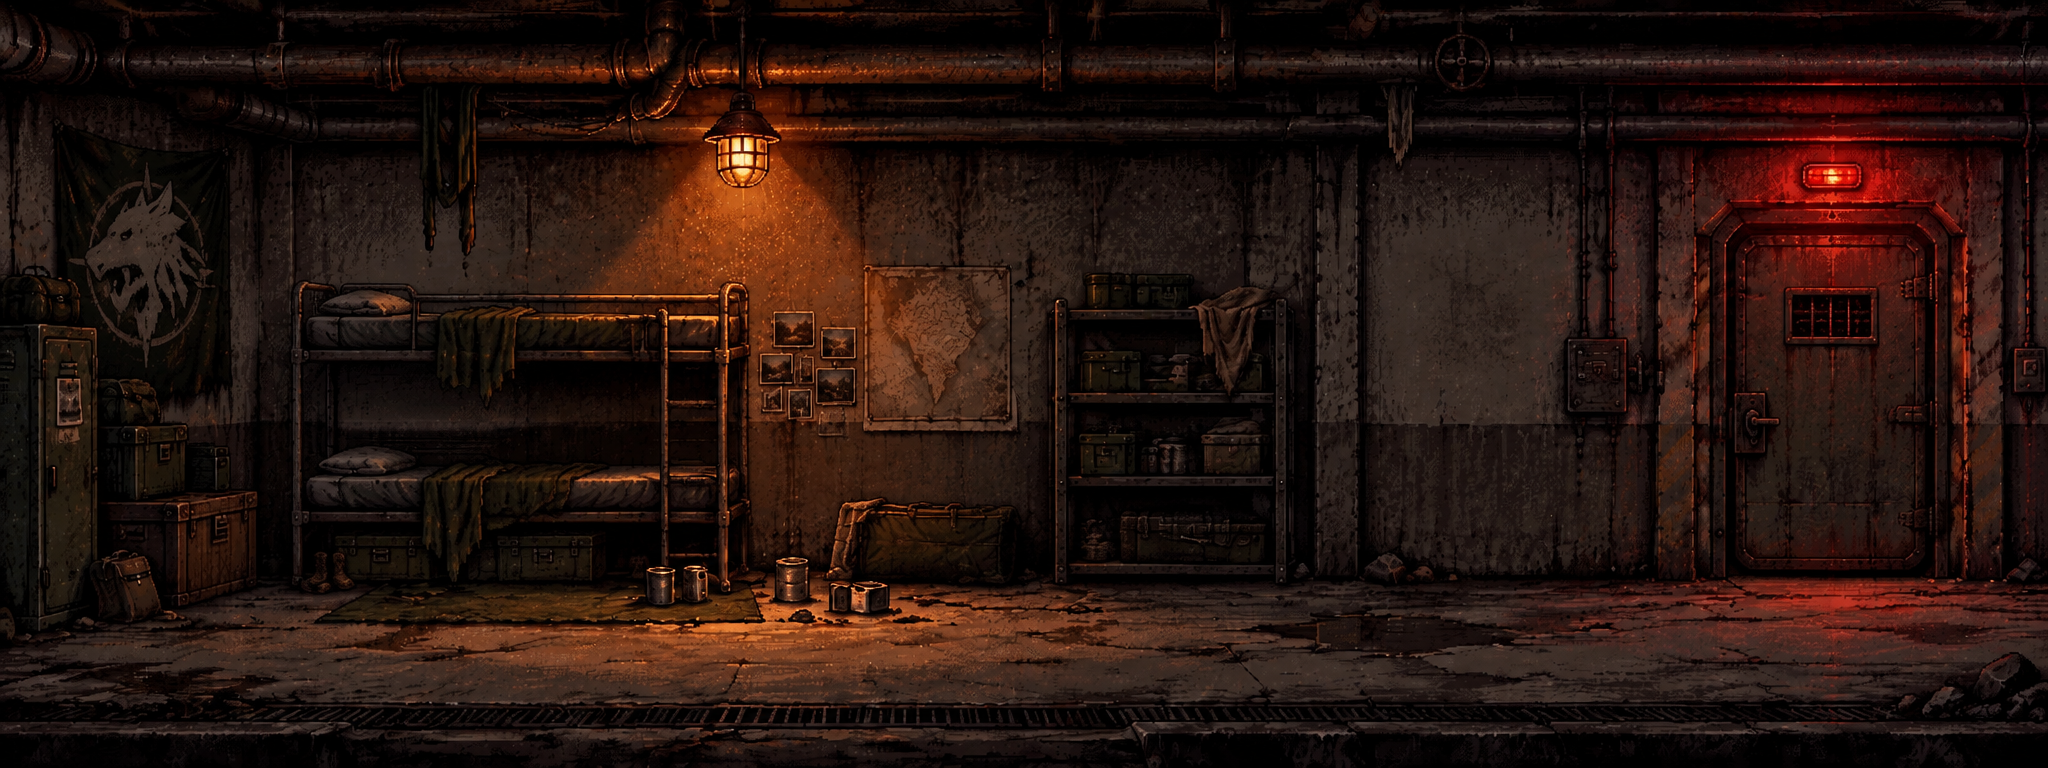
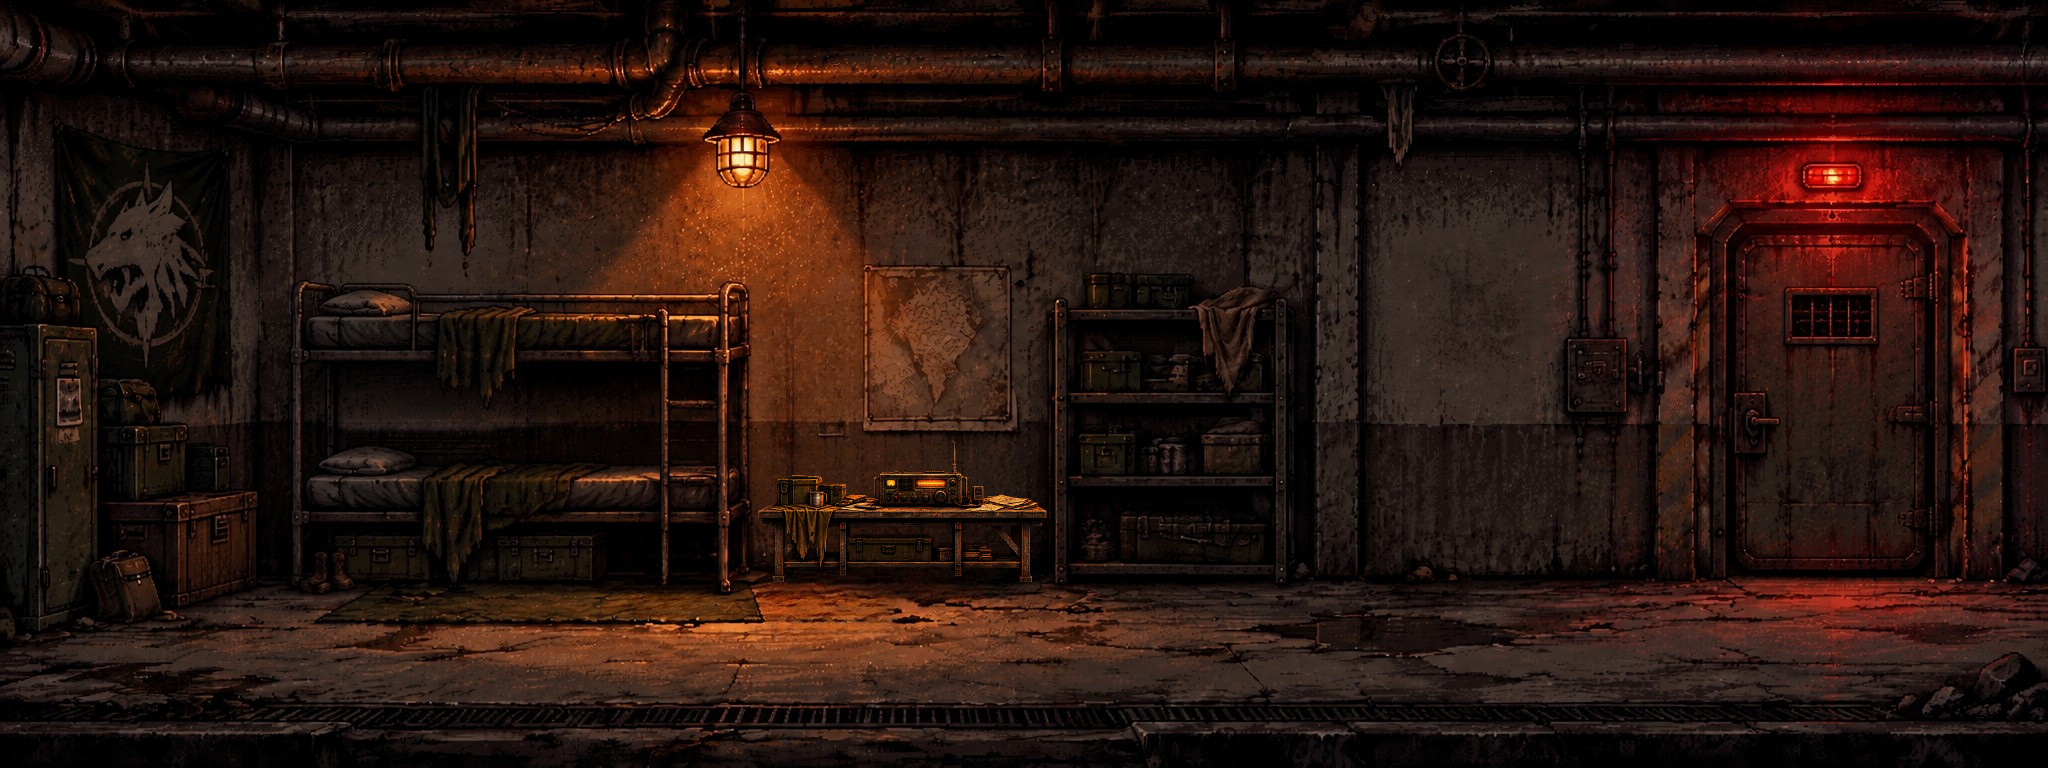
Bunker: painted radio bench, closed food box that opens with an effect
- Painting is now bunker new.png, with the open box cleared back to bare floor
- closed box.png stands there; E rattles the latches, pops the lid with dust,
  a warm glow and motes, and reveals the painted open box
- Radio interaction moved onto the painted set; the bench prop is gone
- Brothers hold the plain side idle through interactions (no guitar/burger)
- Letter: no dashes

Claude-Session: https://claude.ai/code/session_01AdjyBFBBb6YvHaD9hikNRS

Changed region(s): [[0.3125, 0.5938, 0.5312, 0.8438], [0.3438, 0.4062, 0.4375, 0.5625], [0.6562, 0.7188, 0.6875, 0.75]]

diff --git a/src_game/ah_game.js b/src_game/ah_game.js
@@ -5482,6 +5482,18 @@ class WalkScene extends Phaser.Scene {
     saveCheckpoint(this.scene.key, this.sys.settings.data);
   }
 
+  // While he reads a letter, listens to the radio or opens the box, he just
+  // stands side-on: no guitar, no burger, no turning three-quarters. The rest
+  // clock starts again from here, so none of it kicks in the moment he is let go.
+  _standStill(now) {
+    const p = this.player, hero = p && p._hero;
+    if (!p) return;
+    p._restSince = now; p._longIdleDone = false; p._idleLooped = false;
+    if (!p._real || !hero) return;
+    const key = heroAnim(hero, 'idle', p._facing);
+    if (p._curAnim !== key) { playAction(p, hero, 'idle', p._facing); p._curAnim = key; }
+  }
+
   // The camera leads him a little the way he is facing, so he sees more of
   // where he is going than where he has been, and eases rather than snapping
   // when he turns. Its smoothing is the same at 60 and 144 frames a second,
@@ -5815,7 +5827,10 @@ class WalkScene extends Phaser.Scene {
     }
     // A set piece can throw him while it holds the controls (the Twingo does);
     // the throw plays out rather than being stopped dead on the next frame.
-    if (this._holdInput) { if (now >= (this.player._knockUntil || 0)) this.player.setVelocityX(0); }
+    if (this._holdInput) {
+      if (now >= (this.player._knockUntil || 0)) this.player.setVelocityX(0);
+      if (this._calmIdle) this._standStill(now);
+    }
     // A hit throws him. driveWalker sets his speed every frame, which would
     // cancel the knock on the very next one — so for its length, nothing does.
     else if (now < (this.player._knockUntil || 0)) { /* the hit carries him */ }
@@ -6667,6 +6682,7 @@ const Inspect = {
   showDocument(o) {
     this._inConversation = true;
     this._holdInput = true;
+    this._calmIdle = true;
     const p = this.player;
     if (p) {
       p.setVelocity(0, 0);
@@ -6743,6 +6759,7 @@ const Inspect = {
         grp.forEach(g => g.destroy());
         this._inConversation = false;
         this._holdInput = false;
+        this._calmIdle = false;
         if (o.onClose) o.onClose.call(this);
       } });
     };
@@ -6840,19 +6857,19 @@ class BunkerScene extends WalkScene {
     });
 
     // ---- the radio and the food ---------------------------------------
-    // Both stand on the back floor of the painting (the furniture plane, 0.78
-    // or so), behind the brothers, who walk along the front at 0.872.
-    //   radio bench — under the painted wall map (0.42-0.49), which is where
-    //                 you would pin a map if a voice on the radio named a place
-    //   food crate  — in the clear stretch between the pilaster and the door
-    //                 frame (0.667-0.829), its E zone well short of the door's
+    // The bench and the set on it are painted into the room now (bunker
+    // new.png), under the wall map. The food box is a prop: the painting had
+    // it standing open, so that spot was cleared back to bare floor and the
+    // closed box (closed box.png) stands there until it is opened, when the
+    // painted open box — cut out of the same painting, same place — shows.
     this._radioUsed = !!GameState.seen['bunker-radio'];
     this._ate = !!GameState.seen['bunker-ate'];
     this._inConversation = false;
     this._nudged = false;
     this._chatter = null;
-    this._buildRadio(0.44, 0.787);
-    this._buildCrate(0.725, 0.78);
+    this._calmIdle = false;
+    this._buildRadio();
+    this._buildCrate();
     this.input.keyboard.on('keydown-E', () => {
       if (this._inConversation || this._holdInput || this._transitioning) return;
       if (this._atRadio()) this._useRadio();
@@ -6866,53 +6883,34 @@ class BunkerScene extends WalkScene {
     });
   }
 
-  // Where a point on a prop's art lands in the world.
-  _artToWorld(im, ax, ay) {
-    return { x: im.x + (ax - im.originX * im.width) * im.scaleX,
-             y: im.y + (ay - im.originY * im.height) * im.scaleY };
-  }
-
-  // A prop stood on its painted feet, sized by its painted width.
-  _floorProp(key, xf, footF, wantW, depth) {
-    if (!this.textures.exists(key)) return null;
+  // Where a pixel of the painting (bunker_wide.png, 2048x768) lands in the world.
+  _paintToWorld(ax, ay) {
     const bg = this.bgGeom;
-    const im = this.add.image(bg.x + xf * bg.w, bg.y + footF * bg.h, key).setDepth(depth || 5);
-    const art = paintedBox(this, key);
-    if (art) {
-      im.setOrigin((art.x0 + art.pw / 2) / art.w, (art.y1 + 1) / art.h);
-      im.setScale(wantW / art.pw);
-    } else {
-      im.setOrigin(0.5, 1).setScale(wantW / im.width);
-    }
-    return im;
+    return { x: bg.x + ax / BUNKER_ART.w * bg.w, y: bg.y + ay / BUNKER_ART.h * bg.h };
   }
 
-  // The workbench and the set on it. The art has the dial and the meter lit;
-  // until it is switched on they sit under dark covers, and a red standby
-  // light blinks. Coordinates are on radio_bench.png (960x480).
-  _buildRadio(xf, footF) {
-    const im = this._floorProp('scene_radiobench', xf, footF, 461, 5);
-    if (!im) return;
-    this.bench = im;
-    const W = (ax, ay) => this._artToWorld(im, ax, ay);
-    const s = im.scaleX;
-    const box = (x0, y0, x1, y1) => {
-      const a = W(x0, y0), b = W(x1, y1);
+  // The painted set has the dial and the meter lit; until it is switched on
+  // they sit under dark covers, and a red standby light blinks.
+  _buildRadio() {
+    const A = BUNKER_ART.radio;
+    const W = (ax, ay) => this._paintToWorld(ax, ay);
+    const box = r => {
+      const a = W(r[0], r[1]), b = W(r[2], r[3]);
       return { x: (a.x + b.x) / 2, y: (a.y + b.y) / 2, w: b.x - a.x, h: b.y - a.y };
     };
-    const dial = box(525, 127, 622, 158), meter = box(428, 129, 461, 160);
-    this.radioX = W(540, 160).x;               // the middle of the set itself
-    this.radioY = W(540, 160).y;
+    const dial = box(A.dial), meter = box(A.meter);
+    const c = W(A.cx, A.cy);
+    this.radioX = c.x;
+    this.radioY = c.y;
     this.radioCovers = [dial, meter].map(b =>
       this.add.rectangle(b.x, b.y, b.w + 1, b.h + 1, 0x050403, 0.82).setDepth(5.1));
     torchTexture(this);
     this.radioGlow = this.add.image(dial.x, dial.y, TORCH_KEY).setDepth(5.2)
       .setBlendMode(Phaser.BlendModes.ADD).setTint(0xffa040)
       .setDisplaySize(dial.w * 2.6, dial.h * 4.2).setAlpha(0);
-    const led = W(472, 178);
-    this.radioLed = this.add.circle(led.x, led.y, Math.max(2, 5 * s), 0xff2a1a, 1).setDepth(5.3);
-    const top = W(0, paintedBox(this, 'scene_radiobench').y0).y;
-    this.radioLabel = this.add.text(this.radioX, top - 14, 'E  —  RADIO', {
+    const led = W(A.led[0], A.led[1]);
+    this.radioLed = this.add.circle(led.x, led.y, Math.max(2, 1.8 * this.bgGeom.w / BUNKER_ART.w), 0xff2a1a, 1).setDepth(5.3);
+    this.radioLabel = this.add.text(this.radioX, W(0, A.top).y - 14, 'E  —  RADIO', {
       fontFamily: 'Courier New, monospace', fontSize: '15px', color: '#d9c7a8',
       stroke: '#0d0a08', strokeThickness: 4
     }).setOrigin(0.5, 1).setDepth(30).setAlpha(0);
@@ -6934,20 +6932,93 @@ class BunkerScene extends WalkScene {
     }
   }
 
-  _buildCrate(xf, footF) {
-    const im = this._floorProp('scene_cratefood', xf, footF, 234, 5);
-    if (!im) return;
-    this.crate = im;
-    this.crateX = im.x;
-    // over his head, not behind him: he stands in front of the crate
-    this.crateLabel = this.add.text(im.x, this.groundY - this.charH - 30, 'E  —  EAT', {
+  // The closed box on the cleared floor, and the painted open box waiting
+  // under it. Both stand behind the brothers, on the back floor.
+  _buildCrate() {
+    const B = BUNKER_ART.box, k = this.bgGeom.w / BUNKER_ART.w;
+    const o = this._paintToWorld(B.open.x, B.open.y);
+    if (this.textures.exists('scene_bunkerboxopen')) {
+      this.boxOpen = this.add.image(o.x, o.y, 'scene_bunkerboxopen').setOrigin(0, 0)
+        .setScale(k).setDepth(4.9).setAlpha(this._ate ? 1 : 0);
+    }
+    const foot = this._paintToWorld(B.cx, B.foot);
+    this.crateX = foot.x;
+    this.crateFoot = foot.y;
+    if (!this._ate && this.textures.exists('scene_bunkerboxclosed')) {
+      const im = this.add.image(foot.x, foot.y, 'scene_bunkerboxclosed').setDepth(5);
+      const art = paintedBox(this, 'scene_bunkerboxclosed');
+      if (art) im.setOrigin((art.x0 + art.pw / 2) / art.w, (art.y1 + 1) / art.h).setScale(B.w * k / art.pw);
+      else im.setOrigin(0.5, 1).setScale(B.w * k / im.width);
+      this.crate = im;
+    }
+    this.crate = this.crate || this.boxOpen || null;
+    // over his head, not behind him: he stands in front of the box
+    this.crateLabel = this.add.text(foot.x, this.groundY - this.charH - 30, 'E  —  OPEN', {
       fontFamily: 'Courier New, monospace', fontSize: '15px', color: '#d9c7a8',
       stroke: '#0d0a08', strokeThickness: 4
     }).setOrigin(0.5, 1).setDepth(30).setAlpha(0);
   }
 
+  // The latches go, the lid comes up, dust off the floor and a warm light off
+  // what is inside. The closed box gives way to the painted open one under
+  // cover of the pop.
+  _openBox(done) {
+    const im = this.crate, open = this.boxOpen;
+    if (!im || im === open) { if (open) open.setAlpha(1); done(); return; }
+    Sfx.ensure();
+    const x0 = im.x, sx = im.scaleX, sy = im.scaleY;
+    // two latches
+    Sfx.blip(1400, 0.04, 'square', 0.1, 900);
+    this.tweens.add({ targets: im, x: x0 + 2, duration: 40, yoyo: true, repeat: 1 });
+    this.time.delayedCall(170, () => {
+      Sfx.blip(1250, 0.04, 'square', 0.1, 820);
+      this.tweens.add({ targets: im, x: x0 - 2, duration: 40, yoyo: true, repeat: 1 });
+    });
+    this.time.delayedCall(380, () => {
+      if (!this.scene.isActive()) return;
+      // the lid: a heave, then it is open
+      Sfx.burst(0.16, 0.34, 420, 0.8);
+      Sfx.blip(180, 0.18, 'triangle', 0.14, 90);
+      this.tweens.add({ targets: im, scaleY: sy * 1.12, scaleX: sx * 0.97, duration: 90, yoyo: true,
+                        onComplete: () => this.tweens.add({ targets: im, alpha: 0, duration: 140,
+                                                            onComplete: () => im.destroy() }) });
+      if (open) { open.setAlpha(0); this.tweens.add({ targets: open, alpha: 1, delay: 90, duration: 200 }); }
+      this.crate = open || null;
+      const k = this.bgGeom.w / BUNKER_ART.w, bw = BUNKER_ART.box.w * k;
+      const fx = this.crateX, fy = this.crateFoot;
+      // dust kicked off the floor either side
+      for (let i = 0; i < 12; i++) {
+        const side = i % 2 ? 1 : -1;
+        const d = this.add.circle(fx + side * bw * (0.2 + Math.random() * 0.3), fy - 4 - Math.random() * 6,
+                                  4 + Math.random() * 6, 0x8a7a66, 0.5).setDepth(5.4);
+        this.tweens.add({ targets: d, x: d.x + side * (30 + Math.random() * 50), y: d.y - 8 - Math.random() * 18,
+                          scale: 2.4, alpha: 0, duration: 520 + Math.random() * 380, ease: 'Quad.easeOut',
+                          onComplete: () => d.destroy() });
+      }
+      // warm light off the food, swelling and settling
+      torchTexture(this);
+      const glow = this.add.image(fx, fy - bw * 0.22, TORCH_KEY).setDepth(5.3)
+        .setBlendMode(Phaser.BlendModes.ADD).setTint(0xffc070)
+        .setDisplaySize(bw * 1.9, bw * 1.1).setAlpha(0);
+      this.tweens.add({ targets: glow, alpha: 0.7, duration: 160, ease: 'Quad.easeOut',
+                        onComplete: () => this.tweens.add({ targets: glow, alpha: 0, duration: 1100, ease: 'Sine.easeIn',
+                                                            onComplete: () => glow.destroy() }) });
+      // a few motes rising out of it
+      for (let i = 0; i < 7; i++) {
+        const m = this.add.star(fx + (Math.random() - 0.5) * bw * 0.6, fy - bw * 0.18, 4, 1.5, 4.5, 0xfff0c0, 1)
+          .setDepth(5.5).setBlendMode(Phaser.BlendModes.ADD).setAlpha(0);
+        this.tweens.add({ targets: m, alpha: { from: 1, to: 0 }, y: m.y - 30 - Math.random() * 40, angle: 90,
+                          delay: 60 + i * 55, duration: 700 + Math.random() * 300, ease: 'Sine.easeOut',
+                          onComplete: () => m.destroy() });
+      }
+      this.cameras.main.shake(90, 0.0025);
+      Sfx.blip(660, 0.3, 'sine', 0.06, 990);
+    });
+    this.time.delayedCall(1150, () => { if (this.scene.isActive()) done(); });
+  }
+
   _atRadio() {
-    return !!this.bench && !this._radioUsed && !!this.player &&
+    return this.radioX != null && !this._radioUsed && !!this.player &&
            Math.abs(this.player.x - this.radioX) < 130;
   }
 
@@ -6960,6 +7031,7 @@ class BunkerScene extends WalkScene {
   _hold(faceX) {
     this._inConversation = true;
     this._holdInput = true;
+    this._calmIdle = true;
     const p = this.player, hero = p._hero;
     p.setVelocity(0, 0);
     p._facing = faceX >= p.x ? 1 : -1;
@@ -6973,6 +7045,7 @@ class BunkerScene extends WalkScene {
   _release() {
     this._holdInput = false;
     this._inConversation = false;
+    this._calmIdle = false;
   }
 
   _panel(lines, onLine, onDone) {
@@ -7038,8 +7111,7 @@ class BunkerScene extends WalkScene {
     once('bunker-ate');
     this.crateLabel.setAlpha(0);
     this._hold(this.crateX);
-    Sfx.ensure(); Sfx.select();
-    this.time.delayedCall(250, () => {
+    this._openBox(() => {
       if (!this.scene.isActive()) return;
       this._panel(CRATE_LINES, (i, line) => {
         if (line.cue === 'munch') this.time.delayedCall(260, () => Sfx.munch());
@@ -7049,7 +7121,7 @@ class BunkerScene extends WalkScene {
 
   update(time, delta) {
     super.update(time, delta);
-    if (!this.player || !this.bench) return;
+    if (!this.player || this.radioX == null) return;
     const now = this.time.now;
     // standby light blinks until it is on
     if (!this._radioUsed) this.radioLed.setAlpha(Math.floor(now / 520) % 2 ? 1 : 0.15);
@@ -7078,6 +7150,20 @@ class BunkerScene extends WalkScene {
     }
   }
 }
+
+// Where things are on the bunker painting (bunker_wide.png, 2048x768), read
+// off 6x grid crops of it.
+const BUNKER_ART = {
+  w: 2048, h: 768,
+  // the set on the bench: its dial and meter (lit in the art), the standby
+  // light's spot, the middle of the set and the tip of its aerial
+  radio: { dial: [915, 479, 946, 488], meter: [886, 479, 896, 487], led: [896, 497],
+           cx: 921, cy: 486, top: 441 },
+  // the food box: where the painted open one was cut from (bunker_box_open.png
+  // is that cut, 197x97), and the closed one stood on the same floor, the
+  // width of the open box's body
+  box: { open: { x: 1400, y: 512 }, cx: 1492, foot: 597, w: 150 }
+};
 
 // The broadcast: a voice they don't know, cut to pieces by static.
 const RADIO_LINES = [
@@ -7204,10 +7290,10 @@ class ExitScene extends WalkScene {
 const LETTER_X = 0.36;
 const LETTER_TEXT =
   "The man on the radio stopped reading the news tonight. He just kept " +
-  "saying it — this is hell now. We are in hell.\n\n" +
+  "saying it. This is hell now. We are in hell.\n\n" +
   "The sky has burned for three nights. I don't care anymore what happens " +
   "to me. I only pray my son made it out alive.";
-const LETTER_SIGN = "— Rosa";
+const LETTER_SIGN = "Rosa";
 
 // ================================================================== //
 //  TUTORIAL 2 — THE BURNT STREET (learn to jump)                     //

diff --git a/tools/build_html.js b/tools/build_html.js
@@ -127,10 +127,10 @@ const SCENE_SRC = {
   // grids and have to match them.
   aliendeath:   ['public/assets/alien_death_sheet.png'],
   alienface:    ['public/assets/alien_encounter_sheet.png'],
-  // The bunker: the workbench with the radio on it, and the food crate by
-  // the door. Downscaled once from the uploads (radio.png, crate food.png).
-  radiobench:   ['public/assets/radio_bench.png'],
-  cratefood:    ['public/assets/crate_food.png'],
+  // The bunker's food box: closed (closed box.png, trimmed and downscaled),
+  // and open (cut from bunker new.png, where the painting has it).
+  bunkerboxclosed: ['public/assets/bunker_box_closed.png'],
+  bunkerboxopen:   ['public/assets/bunker_box_open.png'],
   // The burnt street's Twingo, in its three states: burning, blowing up, and
   // the wreck left behind. Each drawn at its own scale and position, so the
   // game locks them together on the wheels (TWINGO_ART in ah_game.js).
